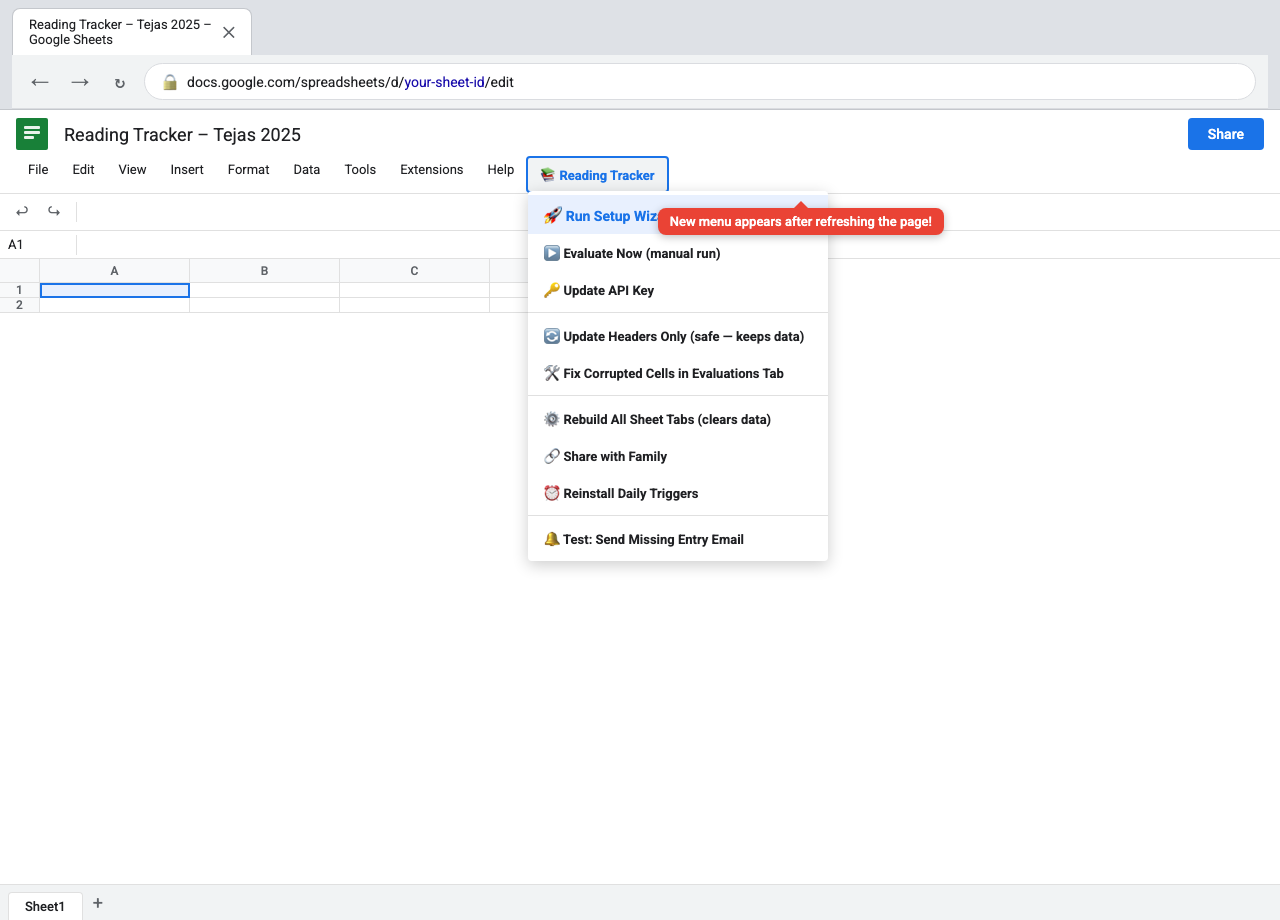
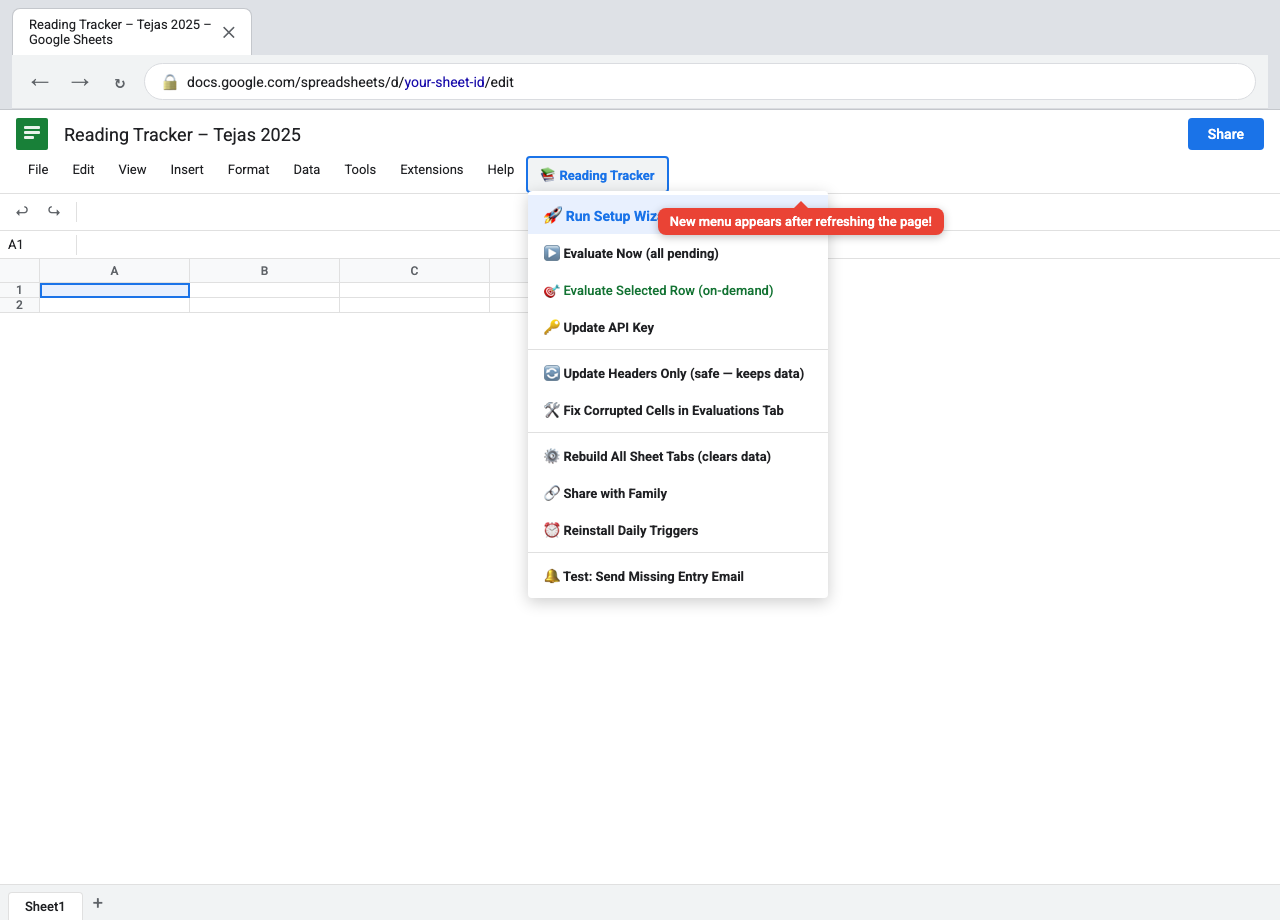
feat: add on-demand row evaluation via menu
Add evaluateSelectedRow() so parents can force-evaluate any specific
Daily Log row immediately — useful when a child finishes a partial
summary after the nightly trigger already ran.

- evaluateSelectedRow(): validates active sheet is Daily Log, reads the
  cursor row, confirms before overwriting an existing score, clears old
  results from Daily Log cols I/J/L and Evaluations tab, then runs
  evaluation + sends email + shows a toast with the score
- _removeEvaluationRows(): helper that deletes matching rows (by
  date + book + chapter) from the Evaluations tab before re-evaluation
  to prevent duplicate entries
- Menu updated: renamed "Evaluate Now" to "Evaluate Now (all pending)"
  and added "Evaluate Selected Row (on-demand)" below it
- README menu reference updated with description of both items
- Menu mockup (04) updated to show the new item in green

Changed region(s): [[0.4062, 0.2739, 0.625, 0.6696]]

diff --git a/tracker.js b/tracker.js
@@ -246,6 +246,129 @@ function _getBooksForGrade(grade) {
  * calls the configured AI provider for each, writes results to the
  * sheet, and emails the family.  No external tools required.
  */
+/**
+ * evaluateSelectedRow() — on-demand evaluation for a single row.
+ *
+ * Parent clicks any cell in a Daily Log row, then picks this from the menu.
+ * Works even if the row was already evaluated — useful when a child finishes
+ * a partial summary and the parent wants a fresh score immediately.
+ *
+ * Steps:
+ *  1. Validate the active sheet is the Daily Log and the row has a summary.
+ *  2. Confirm before overwriting an existing evaluation.
+ *  3. Clear the old result from Daily Log cols I/J/L and matching Evaluations row.
+ *  4. Run the evaluation and write fresh results + send email.
+ */
+function evaluateSelectedRow() {
+  const ui       = SpreadsheetApp.getUi();
+  const ss       = SpreadsheetApp.getActiveSpreadsheet();
+  const active   = ss.getActiveSheet();
+
+  // Must be on the Daily Log tab
+  if (active.getName() !== TABS.DAILY_LOG) {
+    ui.alert("⚠️ Please switch to the 📖 Daily Log tab and click on the row you want to evaluate, then try again.");
+    return;
+  }
+
+  const rowNum = ss.getActiveRange().getRow();
+
+  // Row 1 is the header
+  if (rowNum <= 1) {
+    ui.alert("⚠️ That's the header row. Click on a data row (row 2 or below) and try again.");
+    return;
+  }
+
+  const settings = _getSettings();
+  if (!settings) { ui.alert("⚠️ Settings tab not found. Run the Setup Wizard first."); return; }
+
+  const logSheet  = active;
+  const evalSheet = ss.getSheetByName(TABS.EVALUATIONS);
+  const rowData   = logSheet.getRange(rowNum, 1, 1, 12).getValues()[0];
+
+  const date      = rowData[0];
+  const book      = rowData[1];
+  const chapter   = rowData[2];
+  const summary   = rowData[6];   // col G
+  const existingEval = rowData[8]; // col I
+
+  const hasSummary = summary && summary.toString().trim() !== ""
+                  && !summary.toString().includes("← fills this");
+
+  if (!hasSummary) {
+    ui.alert("⚠️ No summary found in this row (column G). Ask your child to write their summary first.");
+    return;
+  }
+
+  // If already evaluated, confirm overwrite
+  if (existingEval && existingEval.toString().trim() !== "") {
+    const label = [book, chapter].filter(Boolean).join(" – ");
+    const resp  = ui.alert(
+      "🔄 Re-evaluate this row?",
+      `A score already exists for ${label}.\n\nOverwrite with a fresh evaluation?`,
+      ui.ButtonSet.YES_NO
+    );
+    if (resp !== ui.Button.YES) return;
+
+    // Clear Daily Log cols I (eval), J (questions), L (status)
+    logSheet.getRange(rowNum, 9).clearContent();
+    logSheet.getRange(rowNum, 10).clearContent();
+    logSheet.getRange(rowNum, 12).clearContent();
+
+    // Remove matching row(s) from Evaluations tab
+    _removeEvaluationRows(evalSheet, date, book, chapter);
+  }
+
+  const entry = {
+    rowNumber: rowNum,
+    date:      date    ? _formatDate(new Date(date)) : "",
+    book:      book    ? book.toString()    : "",
+    chapter:   chapter ? chapter.toString() : "",
+    startPage: rowData[3] ? rowData[3].toString() : "",
+    endPage:   rowData[4] ? rowData[4].toString()  : "",
+    summary:   summary.toString(),
+  };
+
+  ss.toast("⏳ Evaluating… this takes 10–20 seconds.", "On-Demand Evaluation");
+
+  try {
+    const result = _evaluateEntry(entry, settings);
+    _writeEvaluationToSheet(logSheet, evalSheet, entry, result);
+    _sendEvaluationEmail(entry, result, settings);
+    SpreadsheetApp.flush();
+    ss.toast(`✅ Done! Score: ${result.score}/10`, "Evaluation Complete", 8);
+  } catch (err) {
+    logSheet.getRange(rowNum, 9).setValue(`⚠️ Evaluation failed: ${err.message}`);
+    ui.alert(`❌ Evaluation failed: ${err.message}`);
+  }
+}
+
+/**
+ * Removes rows from the Evaluations tab that match date + book + chapter.
+ * Called before a re-evaluation so there are no duplicate rows.
+ */
+function _removeEvaluationRows(evalSheet, date, book, chapter) {
+  const dateStr    = date    ? _formatDate(new Date(date)) : "";
+  const bookStr    = book    ? book.toString().trim()    : "";
+  const chapterStr = chapter ? chapter.toString().trim() : "";
+
+  const data = evalSheet.getDataRange().getValues();
+  // Walk backwards so row indices stay valid as we delete
+  for (let i = data.length - 1; i >= 1; i--) {
+    const rowDate    = data[i][0] ? _formatDate(new Date(data[i][0])) : "";
+    const rowBook    = data[i][1] ? data[i][1].toString().trim() : "";
+    const rowChapter = data[i][2] ? data[i][2].toString().trim() : "";
+    if (rowDate === dateStr && rowBook === bookStr && rowChapter === chapterStr) {
+      evalSheet.deleteRow(i + 1); // +1 because sheet rows are 1-indexed
+    }
+  }
+}
+
+/**
+ * evaluatePendingEntries() — called by a time-based trigger.
+ * Finds every Daily Log row with a summary but no AI evaluation yet,
+ * calls the configured AI provider for each, writes results to the
+ * sheet, and emails the family.  No external tools required.
+ */
 function evaluatePendingEntries() {
   const settings = _getSettings();
   if (!settings) { Logger.log("Settings tab not found — skipping evaluation."); return; }
@@ -1183,7 +1306,8 @@ function onOpen() {
   SpreadsheetApp.getUi()
     .createMenu("📚 Reading Tracker")
     .addItem("🚀 Run Setup Wizard (first time)", "runSetupWizard")
-    .addItem("▶️ Evaluate Now (manual run)", "evaluatePendingEntries")
+    .addItem("▶️ Evaluate Now (all pending)", "evaluatePendingEntries")
+    .addItem("🎯 Evaluate Selected Row (on-demand)", "evaluateSelectedRow")
     .addItem("🔑 Update API Key", "updateApiKey")
     .addSeparator()
     .addItem("🔄 Update Headers Only (safe — keeps data)", "updateHeadersOnly")

diff --git a/docs/mockups/04_reading_tracker_menu.html b/docs/mockups/04_reading_tracker_menu.html
@@ -19,7 +19,8 @@
         📚 Reading Tracker
         <div class="dropdown" style="top:100%;left:0;min-width:300px;">
           <div class="dropdown-item highlighted" style="background:#e8f0fe;color:#1a73e8;font-weight:600;font-size:14px;">🚀 Run Setup Wizard (first time)</div>
-          <div class="dropdown-item">▶️ Evaluate Now (manual run)</div>
+          <div class="dropdown-item">▶️ Evaluate Now (all pending)</div>
+          <div class="dropdown-item" style="color:#137333;font-weight:500;">🎯 Evaluate Selected Row (on-demand)</div>
           <div class="dropdown-item">🔑 Update API Key</div>
           <div class="dropdown-separator"></div>
           <div class="dropdown-item">🔄 Update Headers Only (safe — keeps data)</div>

diff --git a/README.md b/README.md
@@ -333,7 +333,8 @@ Status column:
 | Menu Item | What It Does |
 |-----------|-------------|
 | 🚀 Run Setup Wizard | First-time guided setup — run once |
-| ▶️ Evaluate Now | Manually trigger evaluation right now (useful for testing) |
+| ▶️ Evaluate Now (all pending) | Evaluates every Daily Log row that has a summary but no score yet |
+| 🎯 Evaluate Selected Row | **On-demand:** click any cell in a Daily Log row, then run this to evaluate that row immediately — re-evaluates even if a score already exists |
 | 🔑 Update API Key | Add or replace the API key for whichever provider is set in ⚙️ Settings |
 | 🔄 Update Headers Only | Refresh column headers/formatting without touching data |
 | 🛠️ Fix Corrupted Cells | Clears any `[Ljava.lang.Object;@...` garbage from old bugs |